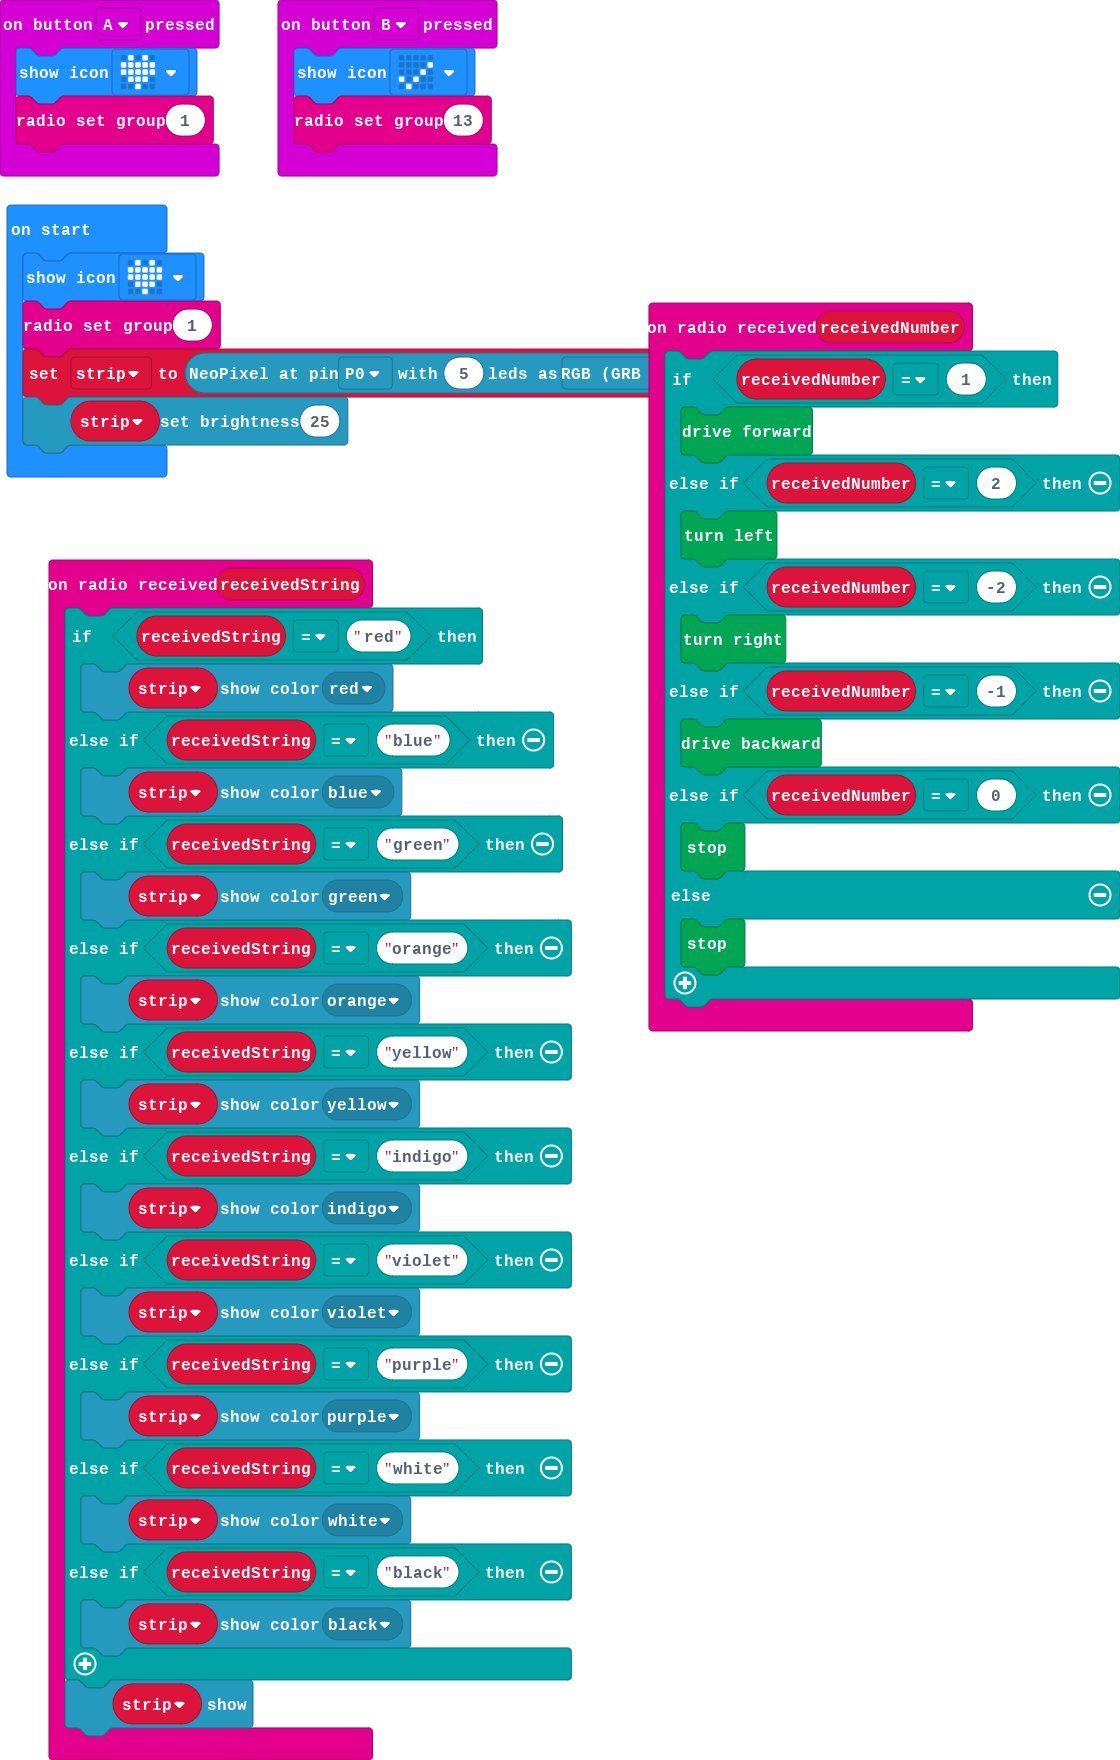
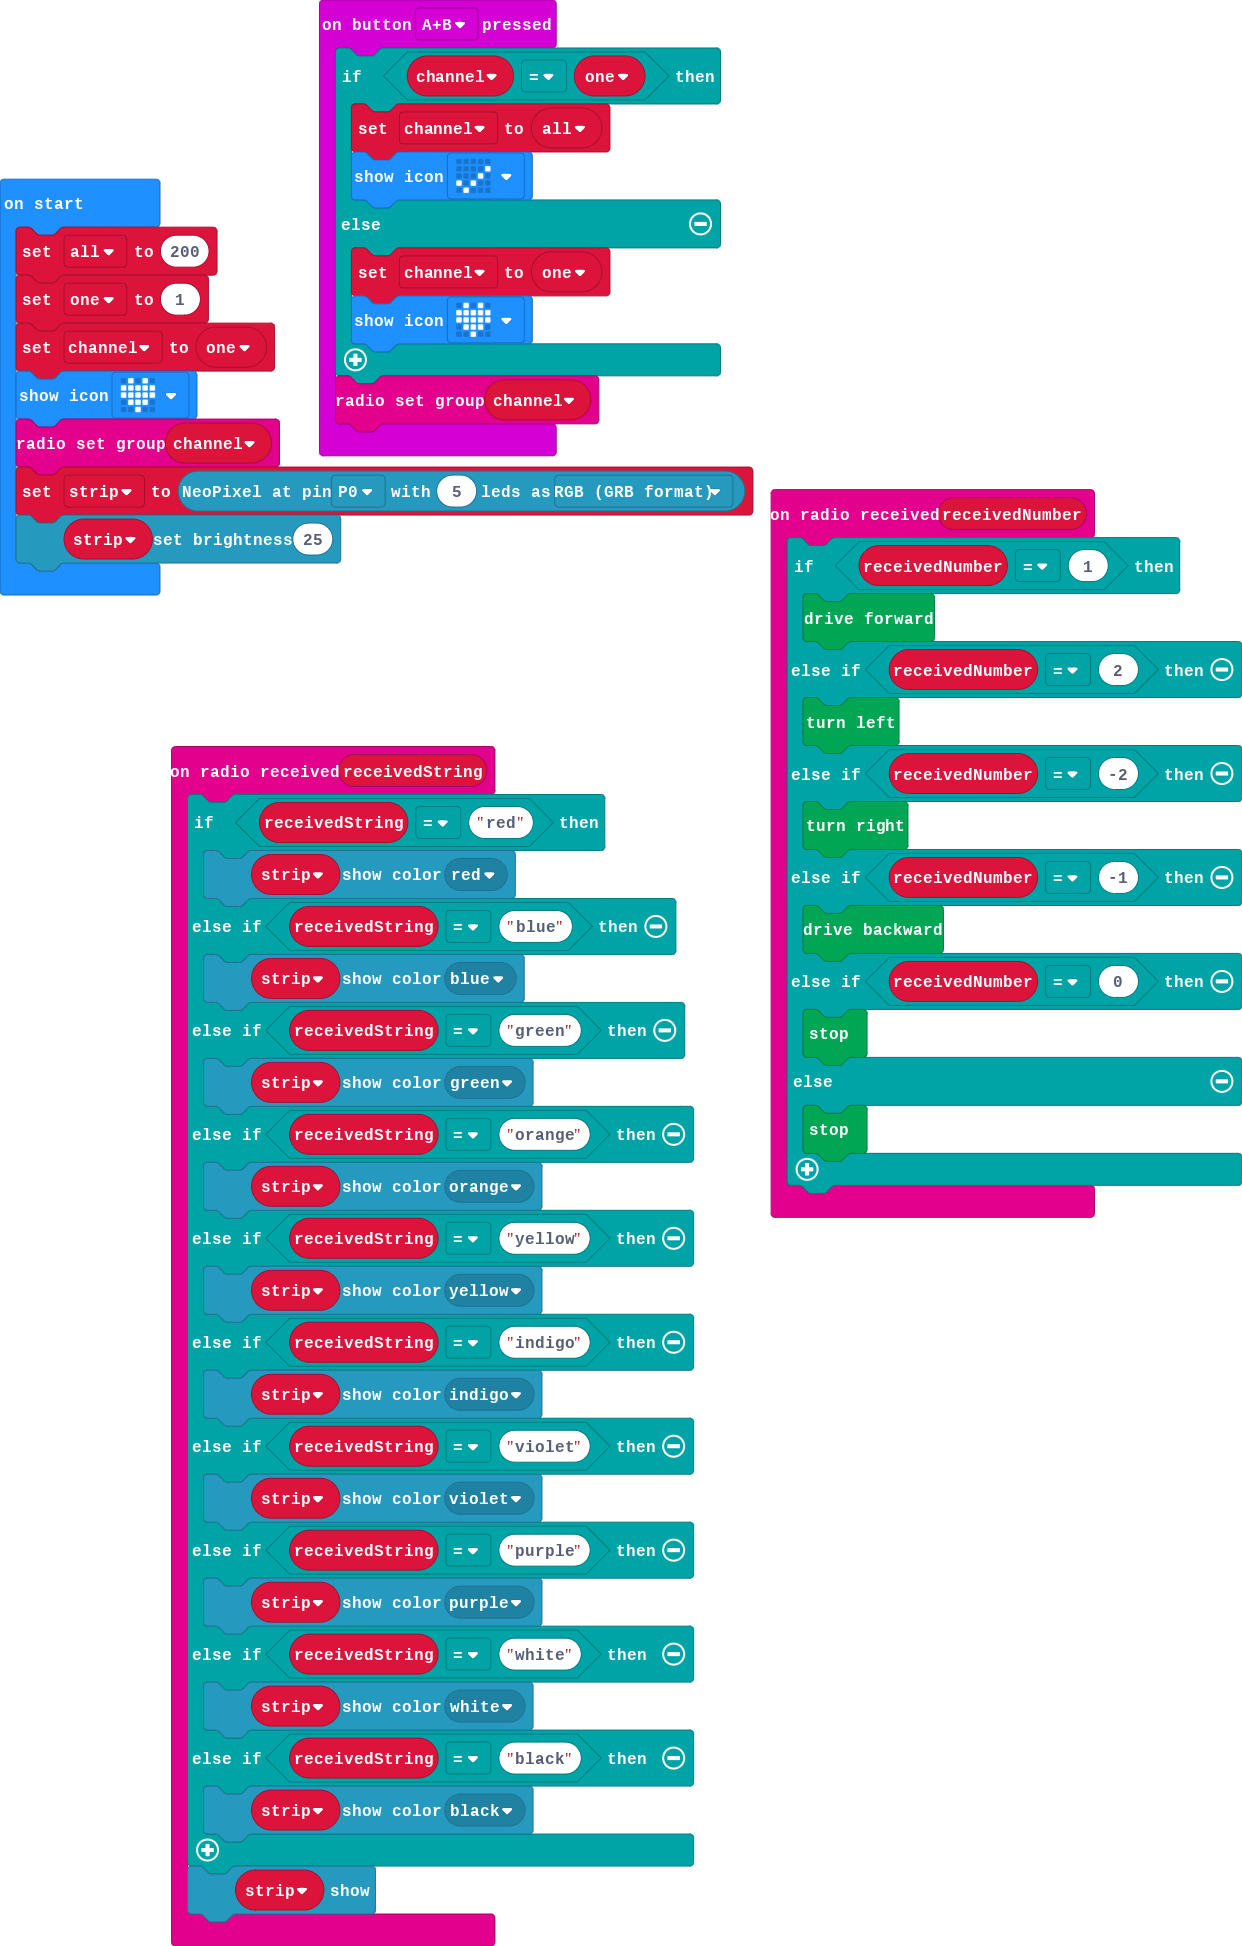
Update main.blocks, main.ts

diff --git a/main.ts b/main.ts
@@ -22,9 +22,15 @@ radio.onReceivedString(function (receivedString) {
     }
     strip.show()
 })
-input.onButtonPressed(Button.B, function () {
-    basic.showIcon(IconNames.Yes)
-    radio.setGroup(13)
+input.onButtonPressed(Button.AB, function () {
+    if (channel == one) {
+        channel = all
+        basic.showIcon(IconNames.Yes)
+    } else {
+        channel = one
+        basic.showIcon(IconNames.Heart)
+    }
+    radio.setGroup(channel)
 })
 radio.onReceivedNumber(function (receivedNumber) {
     if (receivedNumber == 1) {
@@ -41,12 +47,14 @@ radio.onReceivedNumber(function (receivedNumber) {
         kitronik_servo_lite.stop()
     }
 })
-input.onButtonPressed(Button.A, function () {
-    basic.showIcon(IconNames.Heart)
-    radio.setGroup(1)
-})
 let strip: neopixel.Strip = null
+let channel = 0
+let one = 0
+let all = 0
+all = 200
+one = 1
+channel = one
 basic.showIcon(IconNames.Heart)
-radio.setGroup(1)
+radio.setGroup(channel)
 strip = neopixel.create(DigitalPin.P0, 5, NeoPixelMode.RGB)
 strip.setBrightness(25)
